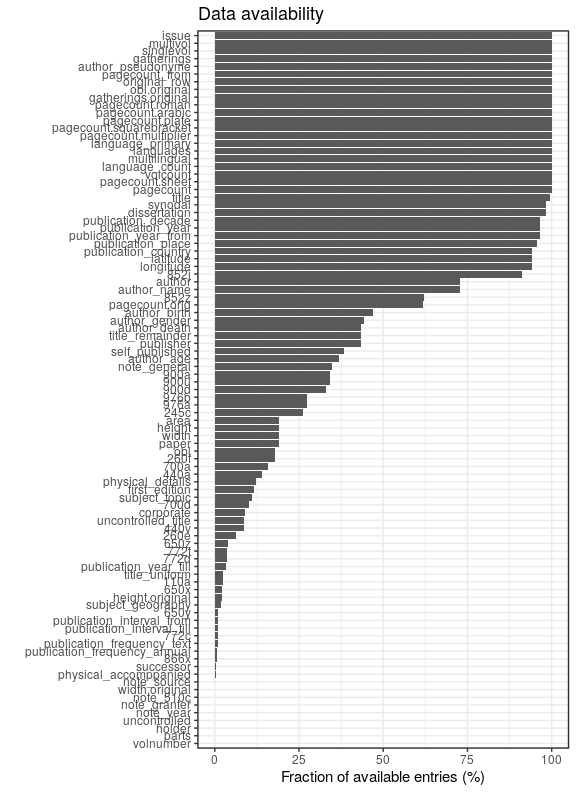
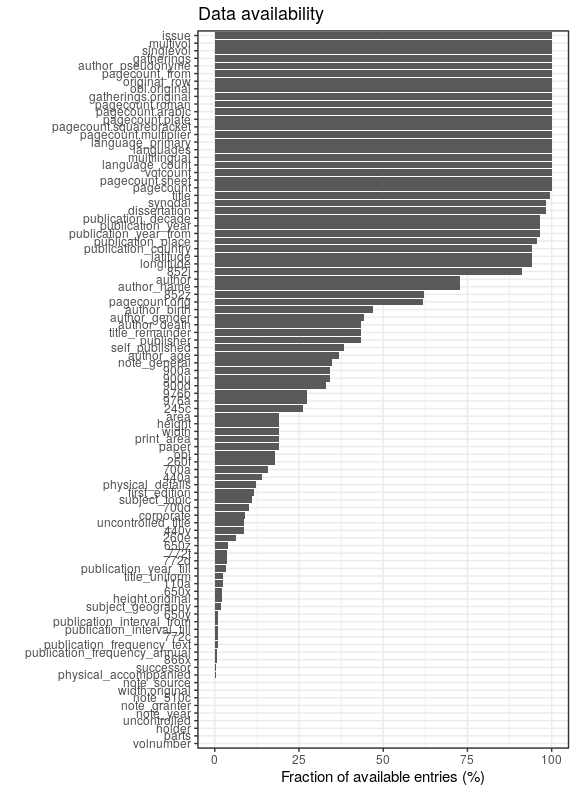
ok

Changed region(s): [[0.375, 0.0909, 0.9688, 0.697], [0.0625, 0.0606, 0.3438, 0.9091]]

diff --git a/overview.md b/overview.md
@@ -1,7 +1,7 @@
 ---
 title: "Preprocessing overview"
 author: "Lahti, Marjanen, Roivainen, Tolonen"
-date: "2018-06-20"
+date: "2018-06-29"
 output: markdown_document
 ---
 
@@ -79,6 +79,7 @@ Same in exact numbers: documents with available/missing entries, and number of u
 |260f                         |          17.8|         68733|        82.2|       7362|
 |obl                          |          17.9|         69054|        82.1|          3|
 |paper                        |          19.1|         73531|        80.9|       4176|
+|print_area                   |          19.1|         73531|        80.9|       4176|
 |width                        |          19.1|         73551|        80.9|         63|
 |height                       |          19.1|         73551|        80.9|         90|
 |area                         |          19.1|         73551|        80.9|        195|
@@ -135,8 +136,8 @@ Same in exact numbers: documents with available/missing entries, and number of u
 
 ```
 ##            used  (Mb) gc trigger   (Mb)  max used   (Mb)
-## Ncells  2912678 155.6    9673041  516.6  18892660 1009.0
-## Vcells 96151564 733.6  275665025 2103.2 248141348 1893.2
+## Ncells  2912047 155.6    9720288  519.2  18984941 1014.0
+## Vcells 96916207 739.5  275793321 2104.2 253581128 1934.7
 ```
 
 

diff --git a/TODO.md b/TODO.md
@@ -36,6 +36,11 @@ nr 1(1928)-nr. 19(2003) 1928 NA 1
 
 ### Fields to be added (?), less urgent
 
+852z = Kirjaston oma public note
+Kungliga on käyttänyt sitä aika surutta: 239k annotoitu. Arvoissa näyttää olevan ainakin sivumääriä ja gatheringseja.
+Paljon myös tietoa siitä, että kirja löytyy myös digitoituna tai on yhteissidos jonkun toisen kirjan kanssa.
+Eli hyvin sekalaista kamaa
+
 Some of these are available in the data but may not have preprocessing
 functions yet (check):
 

diff --git a/20161117-manuscript.md b/20161117-manuscript.md
@@ -1,7 +1,7 @@
 ---
 title: "Patterns in Knowledge Production in Sweden and Finland, 1640–1828"
 author: "Mikko Tolonen, Jani Marjanen, Hege Roivainen, Leo Lahti"
-date: date: "2018-06-20"
+date: date: "2018-06-29"
 output: markdown_document
 ---
 

diff --git a/dimension.md b/dimension.md
@@ -1,7 +1,7 @@
 ---
 title: "Document dimension preprocessing summary"
 author: "Lahti, Marjanen, Roivainen, Tolonen"
-date: "2018-06-20"
+date: "2018-06-29"
 output: markdown_document
 ---
 

diff --git a/publicationplace.md b/publicationplace.md
@@ -1,7 +1,7 @@
 ---
 title: "Publication place preprocessing summary"
 author: "Lahti, Marjanen, Roivainen, Tolonen"
-date: "2018-06-20"
+date: "2018-06-29"
 output: markdown_document
 ---
 

diff --git a/pagecount.md b/pagecount.md
@@ -1,7 +1,7 @@
 ---
 title: "Pagecount preprocessing summary"
 author: "Lahti, Marjanen, Roivainen, Tolonen"
-date: "2018-06-20"
+date: "2018-06-29"
 output: markdown_document
 ---
 

diff --git a/publisher.md b/publisher.md
@@ -1,7 +1,7 @@
 ---
 title: "Publisher preprocessing summary"
 author: "Lahti, Marjanen, Roivainen, Tolonen"
-date: "2018-06-20"
+date: "2018-06-29"
 output: markdown_document
 ---
 

diff --git a/size.md b/size.md
@@ -1,7 +1,7 @@
 ---
 title: "Document dimension size summary"
 author: "Lahti, Marjanen, Roivainen, Tolonen"
-date: "2018-06-20"
+date: "2018-06-29"
 output: markdown_document
 ---
 

diff --git a/gender.md b/gender.md
@@ -1,7 +1,7 @@
 ---
 title: "Gender preprocessing overview"
 author: "Lahti, Marjanen, Roivainen, Tolonen"
-date: "2018-06-20"
+date: "2018-06-29"
 output: markdown_document
 ---
 

diff --git a/author.md b/author.md
@@ -1,7 +1,7 @@
 ---
 title: "Author preprocessing summary"
 author: "Lahti, Marjanen, Roivainen, Tolonen"
-date: "2018-06-20"
+date: "2018-06-29"
 output: markdown_document
 ---
 

diff --git a/topic.md b/topic.md
@@ -1,7 +1,7 @@
 ---
 title: "Subject topic preprocessing summaries"
 author: "Leo Lahti"
-date: "2018-06-20"
+date: "2018-06-29"
 output: markdown_document
 ---
 

diff --git a/publicationyear.md b/publicationyear.md
@@ -1,7 +1,7 @@
 ---
 title: "Publication year summaries"
 author: "Leo Lahti"
-date: "2018-06-20"
+date: "2018-06-29"
 output: markdown_document
 ---
 
